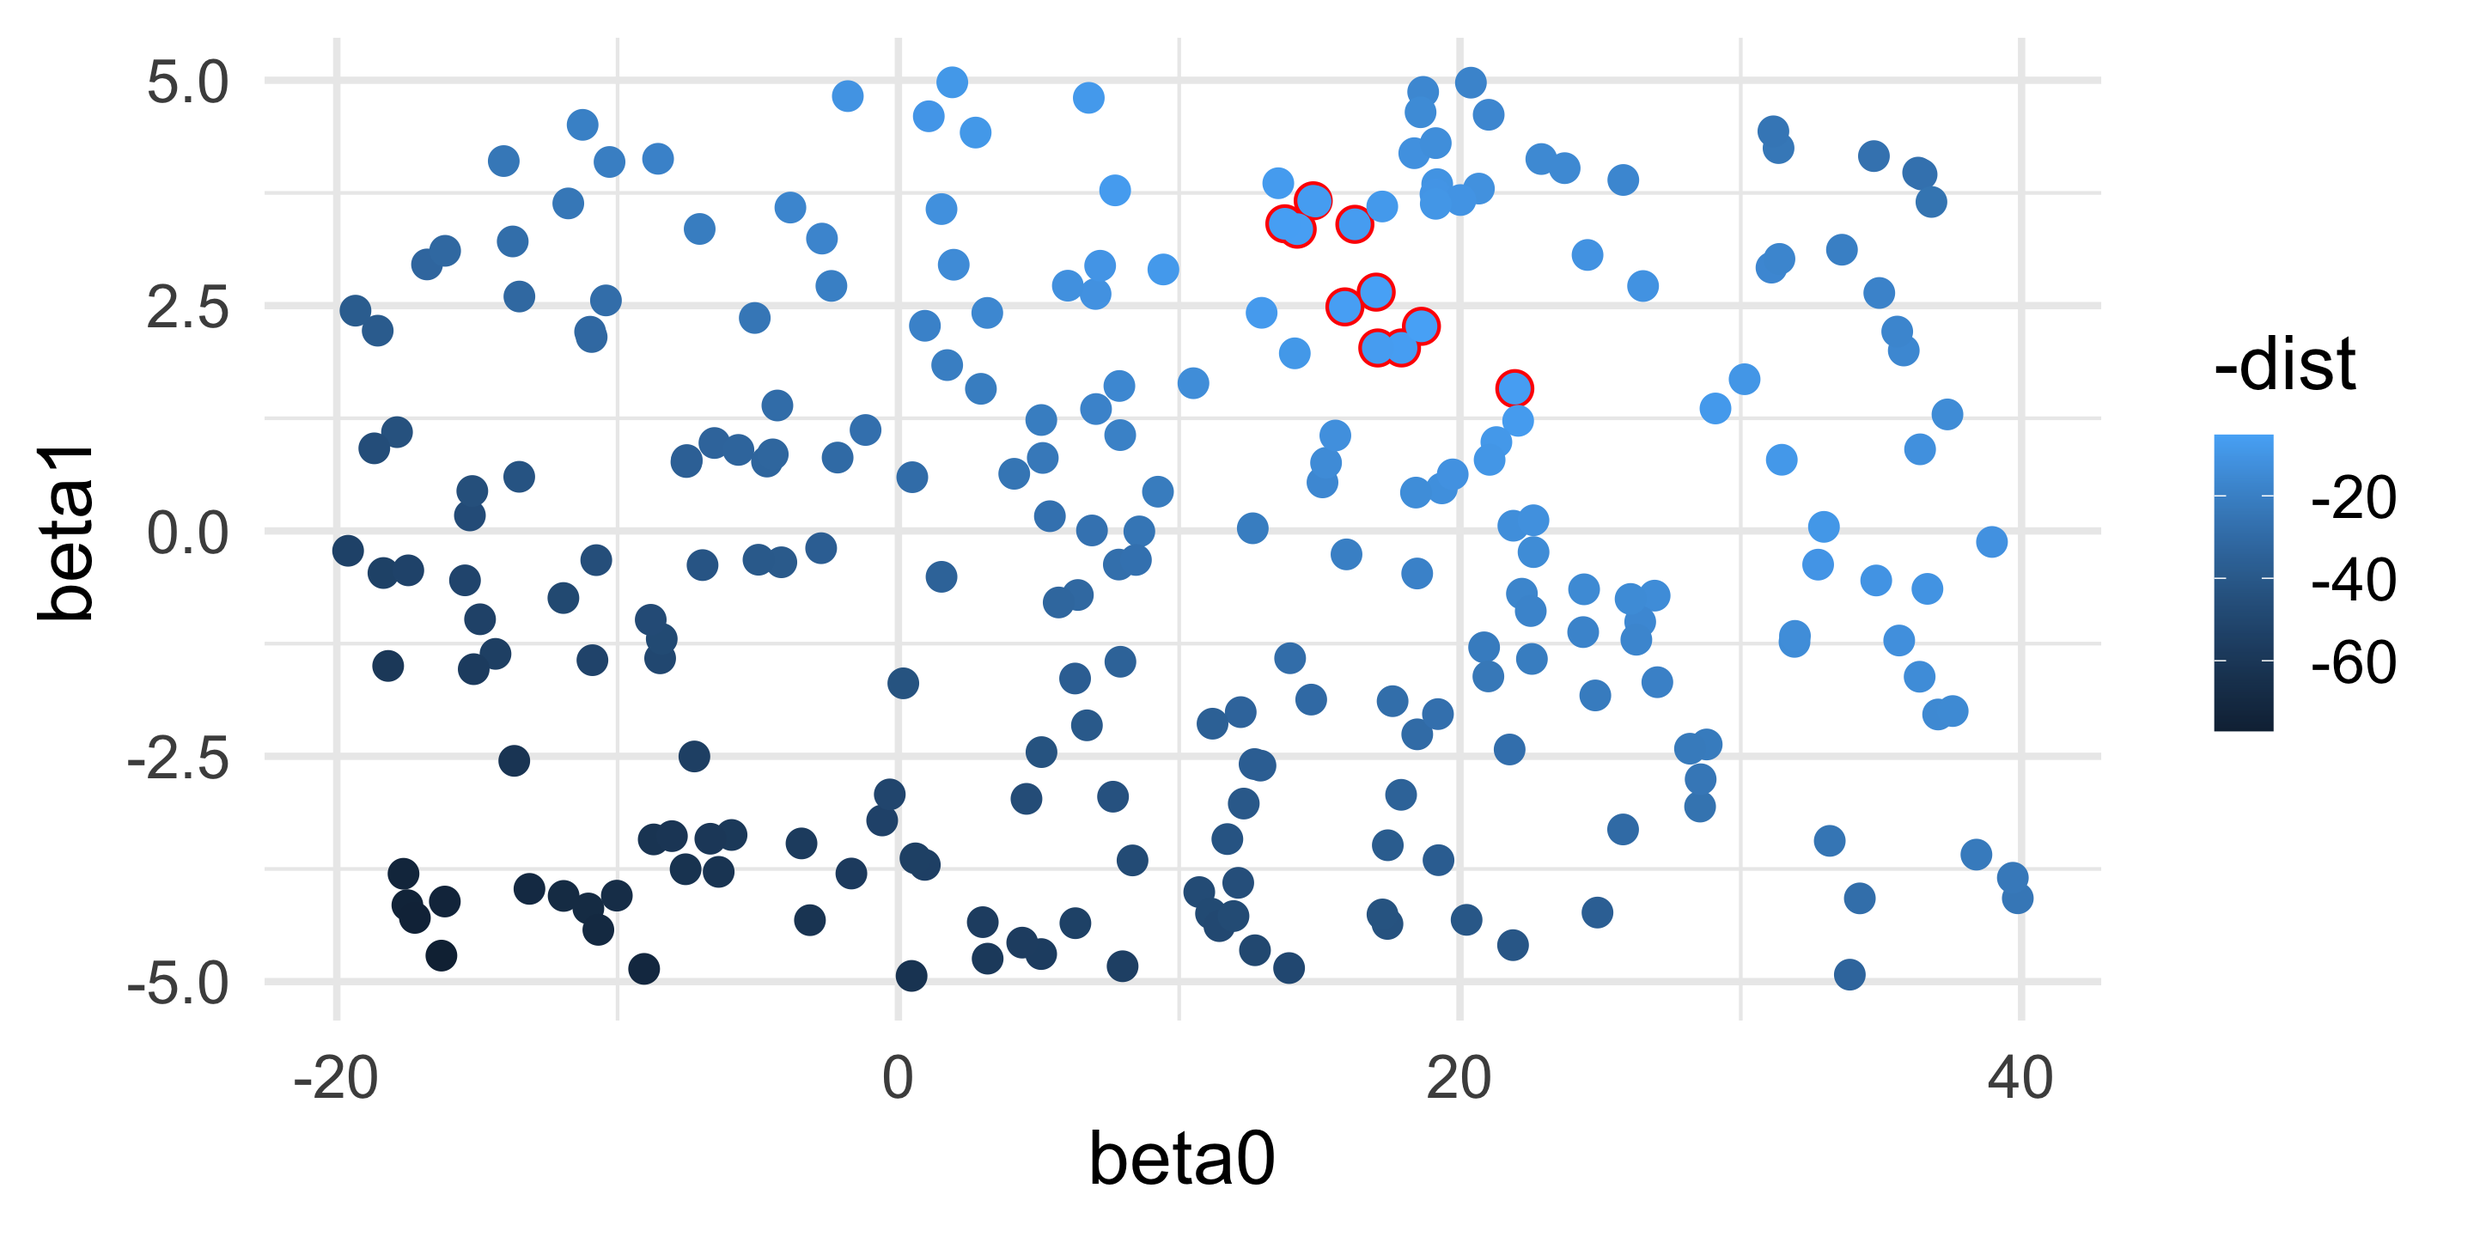
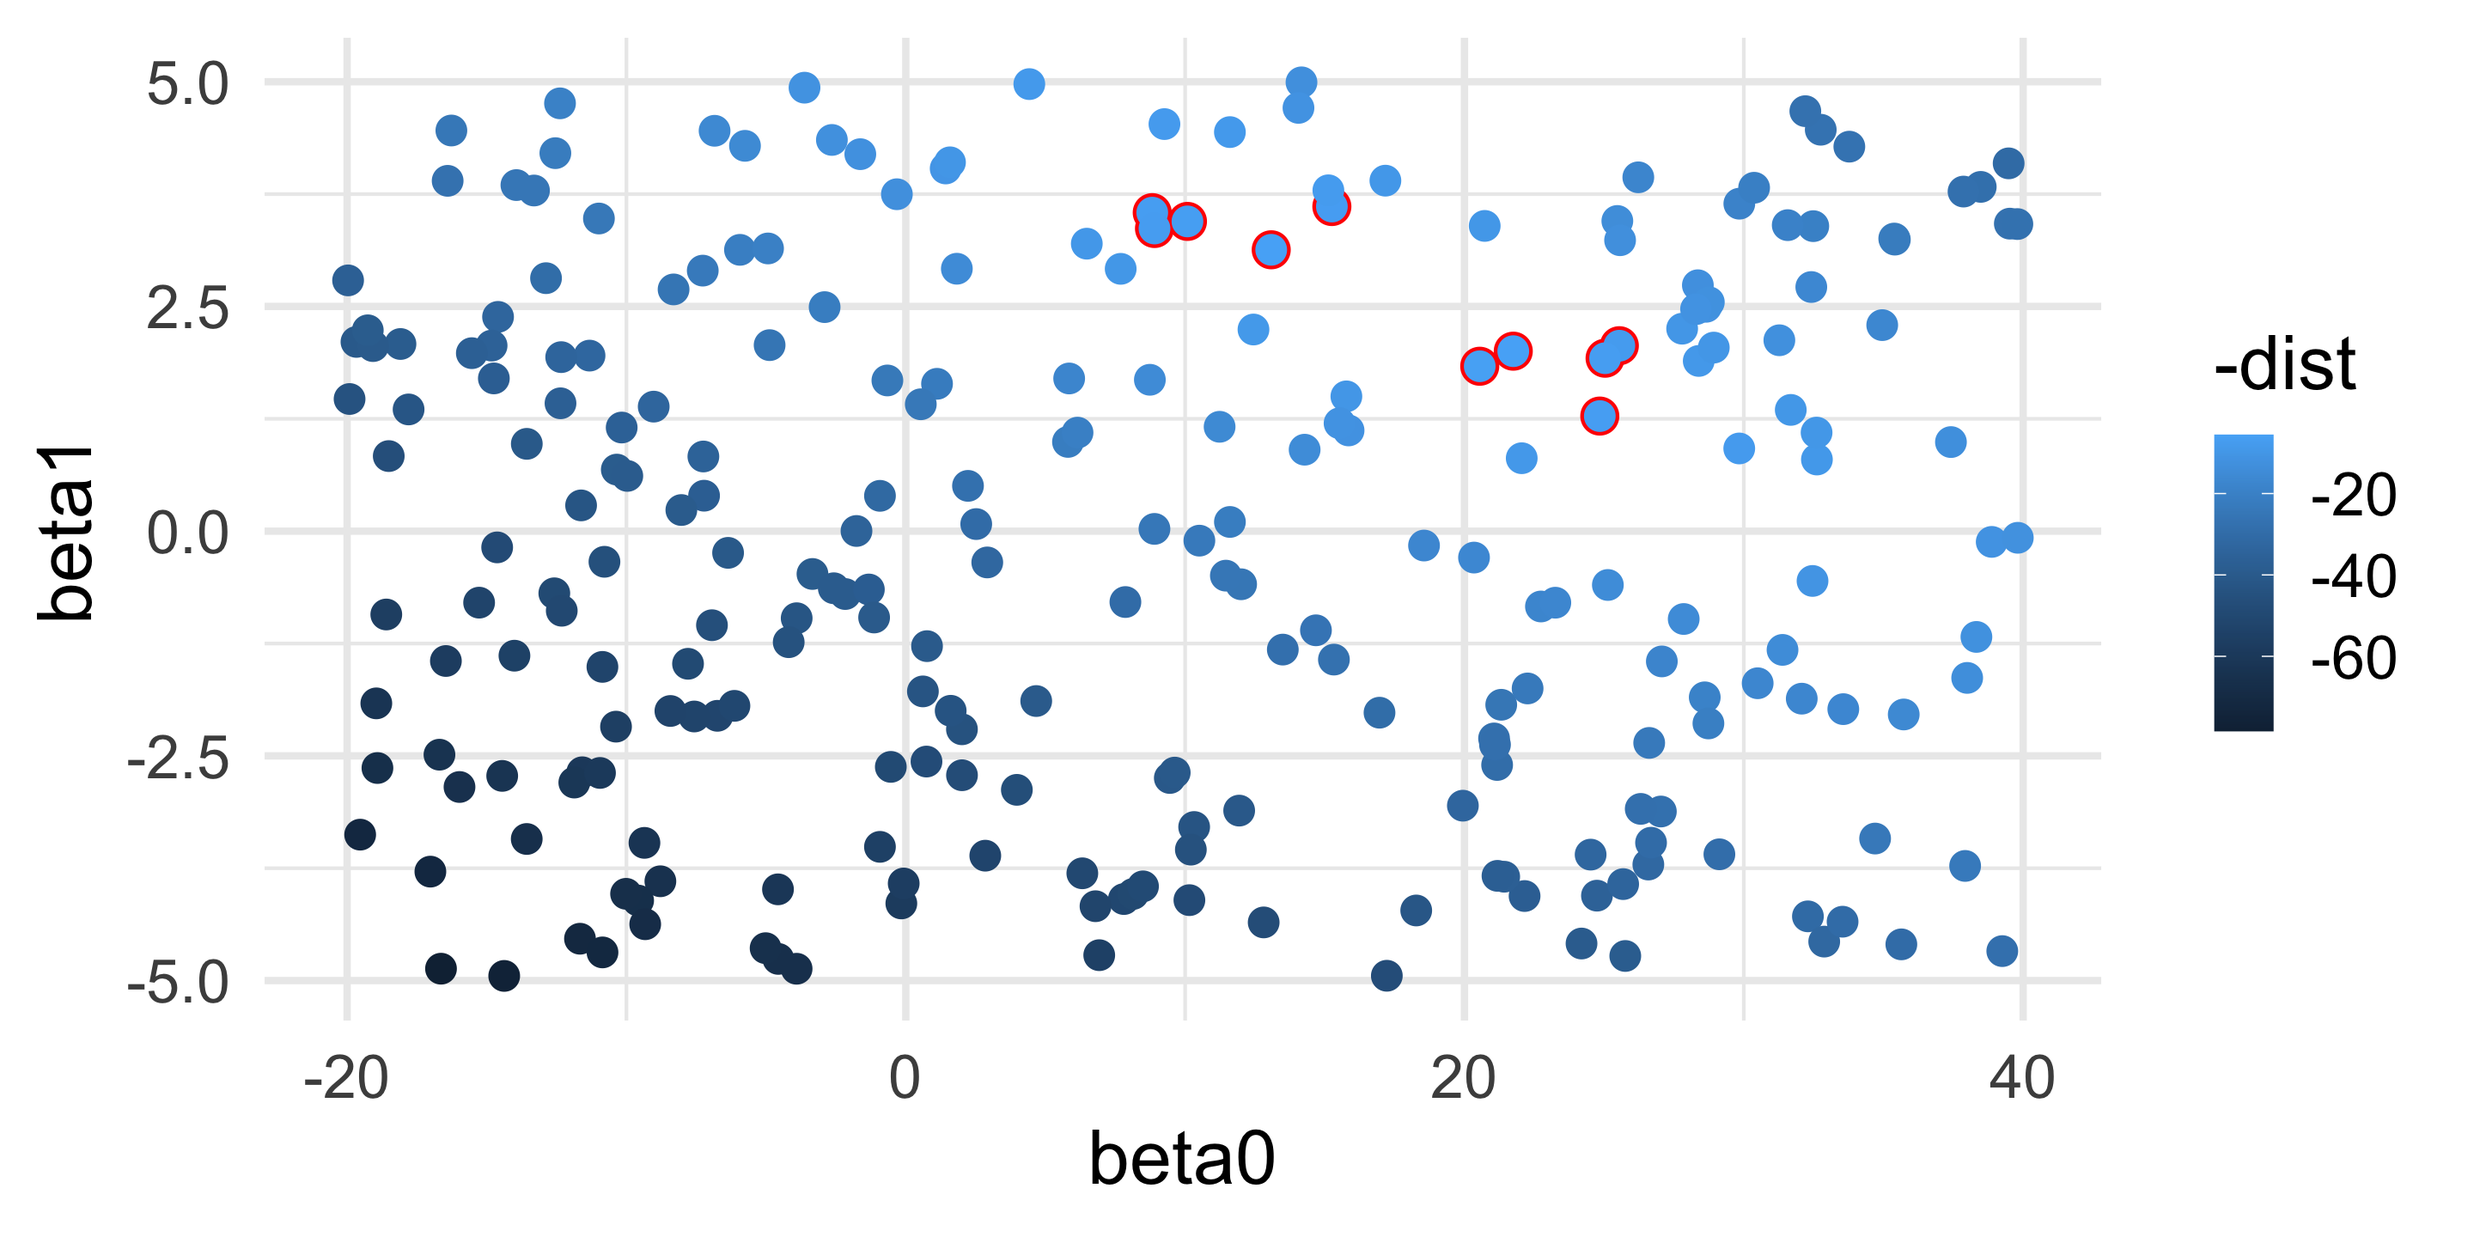
built for latest content

diff --git a/docs/narrative.html b/docs/narrative.html
@@ -132,10 +132,12 @@ window.Quarto = {
 </header>
 
 
-<p><img src="media/models.png" class="img-fluid"></p>
+<!-- BEGIN module:header — generated from module.yml; edit that, not this -->
+<p><img src="media/module_image.jpg" class="img-fluid" alt="A donkey on the beach near Ixtapa, Mexico."></p>
 <blockquote class="blockquote">
 <p>The overall goal of any model is to provide a low-level description of patterns within the data.</p>
 </blockquote>
+<!-- END module:header -->
 <p>If we think of all the variation in a data set, we can partition it into the following components:</p>
 <p><span class="math display">\[
 \sigma_{Total}^2 = \sigma_{Model}^2 + \sigma_{Residual}^2
@@ -183,12 +185,12 @@ y_{ij} = \beta_0 + \beta_1 x_{i} + \epsilon_j
 <span id="cb3-3"><a href="#cb3-3" aria-hidden="true" tabindex="-1"></a><span class="fu">summary</span>( models )</span></code></pre></div><button title="Copy to Clipboard" class="code-copy-button"><i class="bi"></i></button></div>
 <div class="cell-output cell-output-stdout">
 <pre><code>     beta0             beta1        
- Min.   :-19.810   Min.   :-4.9405  
- 1st Qu.: -8.454   1st Qu.:-2.5273  
- Median :  7.313   Median :-0.2439  
- Mean   :  7.525   Mean   :-0.2425  
- 3rd Qu.: 22.319   3rd Qu.: 2.0126  
- Max.   : 39.891   Max.   : 4.9577  </code></pre>
+ Min.   :-19.964   Min.   :-4.9618  
+ 1st Qu.: -5.954   1st Qu.:-2.8537  
+ Median :  8.979   Median :-0.3831  
+ Mean   :  9.337   Mean   :-0.4297  
+ 3rd Qu.: 25.447   3rd Qu.: 1.5416  
+ Max.   : 39.808   Max.   : 4.9388  </code></pre>
 </div>
 </div>
 <p>We can plot these and the original data and all these randomly defined models.</p>
@@ -239,13 +241,13 @@ y_{ij} = \beta_0 + \beta_1 x_{i} + \epsilon_j
 <span id="cb7-7"><a href="#cb7-7" aria-hidden="true" tabindex="-1"></a>}</span>
 <span id="cb7-8"><a href="#cb7-8" aria-hidden="true" tabindex="-1"></a><span class="fu">head</span>( models )</span></code></pre></div><button title="Copy to Clipboard" class="code-copy-button"><i class="bi"></i></button></div>
 <div class="cell-output cell-output-stdout">
-<pre><code>      beta0       beta1      dist
-1 -16.09063 -0.24246791 50.104561
-2 -11.14741 -0.02929899 44.012023
-3 -15.50407 -1.86794924 59.161027
-4  30.96283 -2.73346555 22.665939
-5  33.02548 -3.85426219 27.741279
-6  27.45738  0.03260307  9.979749</code></pre>
+<pre><code>       beta0      beta1     dist
+1  12.647228 -4.2017641 46.81196
+2   4.884073 -3.5188019 49.72289
+3   0.403033 -0.9579392 38.36538
+4 -17.825409 -2.9724538 68.02934
+5  13.488904 -2.1740233 33.59800
+6  22.582257  0.8324193  8.64698</code></pre>
 </div>
 </div>
 <p>If we look through these models, we can see which are better than others by sorting in increasing squared distance.</p>
@@ -862,42 +864,42 @@ y = \beta_0 + \beta_1 x_1 + \beta_2 x_2 + \beta_3 x_3 + \epsilon
 </tr>
 <tr class="even">
 <td style="text-align: left;">Ozone ~ Temp + Wind + Solar + 1 Random Variables</td>
-<td style="text-align: right;">0.6143</td>
+<td style="text-align: right;">0.6070</td>
 <td style="text-align: right;">0e+00</td>
 </tr>
 <tr class="odd">
 <td style="text-align: left;">Ozone ~ Temp + Wind + Solar + 2 Random Variables</td>
-<td style="text-align: right;">0.6153</td>
+<td style="text-align: right;">0.6177</td>
 <td style="text-align: right;">0e+00</td>
 </tr>
 <tr class="even">
 <td style="text-align: left;">Ozone ~ Temp + Wind + Solar + 3 Random Variables</td>
-<td style="text-align: right;">0.6250</td>
+<td style="text-align: right;">0.6205</td>
 <td style="text-align: right;">0e+00</td>
 </tr>
 <tr class="odd">
 <td style="text-align: left;">Ozone ~ Temp + Wind + Solar + 4 Random Variables</td>
-<td style="text-align: right;">0.6254</td>
+<td style="text-align: right;">0.6229</td>
 <td style="text-align: right;">0e+00</td>
 </tr>
 <tr class="even">
 <td style="text-align: left;">Ozone ~ Temp + Wind + Solar + 5 Random Variables</td>
-<td style="text-align: right;">0.6271</td>
+<td style="text-align: right;">0.6229</td>
 <td style="text-align: right;">0e+00</td>
 </tr>
 <tr class="odd">
 <td style="text-align: left;">Ozone ~ Temp + Wind + Solar + 6 Random Variables</td>
-<td style="text-align: right;">0.6337</td>
+<td style="text-align: right;">0.6293</td>
 <td style="text-align: right;">0e+00</td>
 </tr>
 <tr class="even">
 <td style="text-align: left;">Ozone ~ Temp + Wind + Solar + 7 Random Variables</td>
-<td style="text-align: right;">0.6366</td>
+<td style="text-align: right;">0.6308</td>
 <td style="text-align: right;">0e+00</td>
 </tr>
 <tr class="odd">
 <td style="text-align: left;">Ozone ~ Temp + Wind + Solar + 8 Random Variables</td>
-<td style="text-align: right;">0.6371</td>
+<td style="text-align: right;">0.6330</td>
 <td style="text-align: right;">0e+00</td>
 </tr>
 </tbody>
@@ -950,91 +952,91 @@ AIC = -2 \ln L + 2p
 <td style="text-align: left;">Ozone ~ Temp</td>
 <td style="text-align: right;">0.488</td>
 <td style="text-align: right;">1067.706</td>
-<td style="text-align: right;">69.395</td>
+<td style="text-align: right;">68.989</td>
 </tr>
 <tr class="even">
 <td style="text-align: left;">Ozone ~ Wind</td>
 <td style="text-align: right;">0.362</td>
 <td style="text-align: right;">1093.187</td>
-<td style="text-align: right;">94.876</td>
+<td style="text-align: right;">94.470</td>
 </tr>
 <tr class="odd">
 <td style="text-align: left;">Ozone ~ Solar</td>
 <td style="text-align: right;">0.121</td>
 <td style="text-align: right;">1083.714</td>
-<td style="text-align: right;">85.403</td>
+<td style="text-align: right;">84.997</td>
 </tr>
 <tr class="even">
 <td style="text-align: left;">Ozone ~ Temp + Wind</td>
 <td style="text-align: right;">0.569</td>
 <td style="text-align: right;">1049.741</td>
-<td style="text-align: right;">51.430</td>
+<td style="text-align: right;">51.024</td>
 </tr>
 <tr class="odd">
 <td style="text-align: left;">Ozone ~ Temp + Solar</td>
 <td style="text-align: right;">0.510</td>
 <td style="text-align: right;">1020.820</td>
-<td style="text-align: right;">22.508</td>
+<td style="text-align: right;">22.103</td>
 </tr>
 <tr class="even">
 <td style="text-align: left;">Ozone ~ Wind + Solar</td>
 <td style="text-align: right;">0.449</td>
 <td style="text-align: right;">1033.816</td>
-<td style="text-align: right;">35.504</td>
+<td style="text-align: right;">35.098</td>
 </tr>
 <tr class="odd">
 <td style="text-align: left;">Ozone ~ Temp + Wind + Solar</td>
 <td style="text-align: right;">0.606</td>
 <td style="text-align: right;">998.717</td>
-<td style="text-align: right;">0.406</td>
+<td style="text-align: right;">0.000</td>
 </tr>
 <tr class="even">
 <td style="text-align: left;">Ozone ~ Temp + Wind + Solar + 1 Random Variables</td>
-<td style="text-align: right;">0.614</td>
-<td style="text-align: right;">998.311</td>
-<td style="text-align: right;">0.000</td>
+<td style="text-align: right;">0.607</td>
+<td style="text-align: right;">1000.410</td>
+<td style="text-align: right;">1.693</td>
 </tr>
 <tr class="odd">
 <td style="text-align: left;">Ozone ~ Temp + Wind + Solar + 2 Random Variables</td>
-<td style="text-align: right;">0.615</td>
-<td style="text-align: right;">1000.028</td>
-<td style="text-align: right;">1.717</td>
+<td style="text-align: right;">0.618</td>
+<td style="text-align: right;">999.330</td>
+<td style="text-align: right;">0.613</td>
 </tr>
 <tr class="even">
 <td style="text-align: left;">Ozone ~ Temp + Wind + Solar + 3 Random Variables</td>
-<td style="text-align: right;">0.625</td>
-<td style="text-align: right;">999.188</td>
-<td style="text-align: right;">0.876</td>
+<td style="text-align: right;">0.621</td>
+<td style="text-align: right;">1000.516</td>
+<td style="text-align: right;">1.799</td>
 </tr>
 <tr class="odd">
 <td style="text-align: left;">Ozone ~ Temp + Wind + Solar + 4 Random Variables</td>
-<td style="text-align: right;">0.625</td>
-<td style="text-align: right;">1001.082</td>
-<td style="text-align: right;">2.771</td>
+<td style="text-align: right;">0.623</td>
+<td style="text-align: right;">1001.814</td>
+<td style="text-align: right;">3.097</td>
 </tr>
 <tr class="even">
 <td style="text-align: left;">Ozone ~ Temp + Wind + Solar + 5 Random Variables</td>
-<td style="text-align: right;">0.627</td>
-<td style="text-align: right;">1002.569</td>
-<td style="text-align: right;">4.257</td>
+<td style="text-align: right;">0.623</td>
+<td style="text-align: right;">1003.807</td>
+<td style="text-align: right;">5.090</td>
 </tr>
 <tr class="odd">
 <td style="text-align: left;">Ozone ~ Temp + Wind + Solar + 6 Random Variables</td>
-<td style="text-align: right;">0.634</td>
-<td style="text-align: right;">1002.603</td>
-<td style="text-align: right;">4.292</td>
+<td style="text-align: right;">0.629</td>
+<td style="text-align: right;">1003.907</td>
+<td style="text-align: right;">5.190</td>
 </tr>
 <tr class="even">
 <td style="text-align: left;">Ozone ~ Temp + Wind + Solar + 7 Random Variables</td>
-<td style="text-align: right;">0.637</td>
-<td style="text-align: right;">1003.704</td>
-<td style="text-align: right;">5.393</td>
+<td style="text-align: right;">0.631</td>
+<td style="text-align: right;">1005.467</td>
+<td style="text-align: right;">6.750</td>
 </tr>
 <tr class="odd">
 <td style="text-align: left;">Ozone ~ Temp + Wind + Solar + 8 Random Variables</td>
-<td style="text-align: right;">0.637</td>
-<td style="text-align: right;">1005.573</td>
-<td style="text-align: right;">7.262</td>
+<td style="text-align: right;">0.633</td>
+<td style="text-align: right;">1006.807</td>
+<td style="text-align: right;">8.090</td>
 </tr>
 </tbody>
 </table>

diff --git a/docs/slides.html b/docs/slides.html
@@ -242,12 +242,12 @@ y = \beta_0 + \beta_1 x_1 + \epsilon
 <span id="cb1-3"><a href=""></a><span class="fu">summary</span>( models )</span></code></pre></div><button title="Copy to Clipboard" class="code-copy-button"><i class="bi"></i></button></div>
 <div class="cell-output cell-output-stdout">
 <pre><code>     beta0             beta1        
- Min.   :-19.598   Min.   :-4.9365  
- 1st Qu.: -4.274   1st Qu.:-2.5385  
- Median : 10.611   Median :-0.2273  
- Mean   :  9.573   Mean   :-0.1091  
- 3rd Qu.: 21.650   3rd Qu.: 2.4200  
- Max.   : 39.864   Max.   : 4.9770  </code></pre>
+ Min.   :-19.965   Min.   :-4.9482  
+ 1st Qu.: -7.740   1st Qu.:-2.6707  
+ Median :  7.750   Median :-0.2677  
+ Mean   :  8.274   Mean   :-0.1383  
+ 3rd Qu.: 25.108   3rd Qu.: 2.2503  
+ Max.   : 39.808   Max.   : 4.9935  </code></pre>
 </div>
 </div>
 </div><div class="column" style="width:50%;">
@@ -291,12 +291,12 @@ y = \beta_0 + \beta_1 x_1 + \epsilon
 <span id="cb4-8"><a href=""></a><span class="fu">head</span>( models )</span></code></pre></div><button title="Copy to Clipboard" class="code-copy-button"><i class="bi"></i></button></div>
 <div class="cell-output cell-output-stdout">
 <pre><code>       beta0      beta1     dist
-1 28.7849851 -2.3686944 22.09158
-2 15.1029467  0.5388660 15.80474
-3 -2.7209410  3.2435006 17.49930
-4 20.6735662  3.7980586 11.64837
-5 26.9316197 -0.7176156 13.99879
-6  0.4951626  0.5963720 29.02303</code></pre>
+1  -7.268578  2.8986425 23.64729
+2  27.065503 -1.4491565 17.99488
+3 -10.345671  0.6848561 39.05557
+4   1.427956  4.0351897 10.46134
+5 -13.567335  0.9713629 40.56625
+6  39.523158  3.4212957 27.22725</code></pre>
 </div>
 </div>
 </section>
@@ -917,35 +917,35 @@ y = \beta_0 + \beta_1 x_1 + \epsilon
 <tbody>
 <tr class="odd">
 <td style="text-align: left;">Ozone ~ Temp + Wind + Solar + 1 Random Variables</td>
-<td style="text-align: left;">0.6059</td>
+<td style="text-align: left;">0.6061</td>
 </tr>
 <tr class="even">
 <td style="text-align: left;">Ozone ~ Temp + Wind + Solar + 2 Random Variables</td>
-<td style="text-align: left;">0.6075</td>
+<td style="text-align: left;">0.6088</td>
 </tr>
 <tr class="odd">
 <td style="text-align: left;">Ozone ~ Temp + Wind + Solar + 3 Random Variables</td>
-<td style="text-align: left;">0.6081</td>
+<td style="text-align: left;">0.6091</td>
 </tr>
 <tr class="even">
 <td style="text-align: left;">Ozone ~ Temp + Wind + Solar + 4 Random Variables</td>
-<td style="text-align: left;">0.6255</td>
+<td style="text-align: left;">0.6138</td>
 </tr>
 <tr class="odd">
 <td style="text-align: left;">Ozone ~ Temp + Wind + Solar + 5 Random Variables</td>
-<td style="text-align: left;">0.6255</td>
+<td style="text-align: left;">0.6138</td>
 </tr>
 <tr class="even">
 <td style="text-align: left;">Ozone ~ Temp + Wind + Solar + 6 Random Variables</td>
-<td style="text-align: left;">0.6258</td>
+<td style="text-align: left;">0.6162</td>
 </tr>
 <tr class="odd">
 <td style="text-align: left;">Ozone ~ Temp + Wind + Solar + 7 Random Variables</td>
-<td style="text-align: left;">0.6283</td>
+<td style="text-align: left;">0.6163</td>
 </tr>
 <tr class="even">
 <td style="text-align: left;">Ozone ~ Temp + Wind + Solar + 8 Random Variables</td>
-<td style="text-align: left;">0.6330</td>
+<td style="text-align: left;">0.6230</td>
 </tr>
 </tbody>
 </table>
@@ -1036,50 +1036,50 @@ y = \beta_0 + \beta_1 x_1 + \epsilon
 <tr class="even">
 <td style="text-align: left;">Ozone ~ Temp + Wind + Solar + 1 Random Variables</td>
 <td style="text-align: right;">0.606</td>
-<td style="text-align: right;">1000.708</td>
-<td style="text-align: right;">1.991</td>
+<td style="text-align: right;">1000.651</td>
+<td style="text-align: right;">1.934</td>
 </tr>
 <tr class="odd">
 <td style="text-align: left;">Ozone ~ Temp + Wind + Solar + 2 Random Variables</td>
-<td style="text-align: right;">0.607</td>
-<td style="text-align: right;">1002.276</td>
-<td style="text-align: right;">3.559</td>
+<td style="text-align: right;">0.609</td>
+<td style="text-align: right;">1001.891</td>
+<td style="text-align: right;">3.174</td>
 </tr>
 <tr class="even">
 <td style="text-align: left;">Ozone ~ Temp + Wind + Solar + 3 Random Variables</td>
-<td style="text-align: right;">0.608</td>
-<td style="text-align: right;">1004.095</td>
-<td style="text-align: right;">5.378</td>
+<td style="text-align: right;">0.609</td>
+<td style="text-align: right;">1003.815</td>
+<td style="text-align: right;">5.098</td>
 </tr>
 <tr class="odd">
 <td style="text-align: left;">Ozone ~ Temp + Wind + Solar + 4 Random Variables</td>
-<td style="text-align: right;">0.625</td>
-<td style="text-align: right;">1001.063</td>
-<td style="text-align: right;">2.346</td>
+<td style="text-align: right;">0.614</td>
+<td style="text-align: right;">1004.474</td>
+<td style="text-align: right;">5.757</td>
 </tr>
 <tr class="even">
 <td style="text-align: left;">Ozone ~ Temp + Wind + Solar + 5 Random Variables</td>
-<td style="text-align: right;">0.626</td>
-<td style="text-align: right;">1003.047</td>
-<td style="text-align: right;">4.330</td>
+<td style="text-align: right;">0.614</td>
+<td style="text-align: right;">1006.472</td>
+<td style="text-align: right;">7.755</td>
 </tr>
 <tr class="odd">
 <td style="text-align: left;">Ozone ~ Temp + Wind + Solar + 6 Random Variables</td>
-<td style="text-align: right;">0.626</td>
-<td style="text-align: right;">1004.963</td>
-<td style="text-align: right;">6.246</td>
+<td style="text-align: right;">0.616</td>
+<td style="text-align: right;">1007.772</td>
+<td style="text-align: right;">9.054</td>
 </tr>
 <tr class="even">
 <td style="text-align: left;">Ozone ~ Temp + Wind + Solar + 7 Random Variables</td>
-<td style="text-align: right;">0.628</td>
-<td style="text-align: right;">1006.219</td>
-<td style="text-align: right;">7.502</td>
+<td style="text-align: right;">0.616</td>
+<td style="text-align: right;">1009.760</td>
+<td style="text-align: right;">11.043</td>
 </tr>
 <tr class="odd">
 <td style="text-align: left;">Ozone ~ Temp + Wind + Solar + 8 Random Variables</td>
-<td style="text-align: right;">0.633</td>
-<td style="text-align: right;">1006.815</td>
-<td style="text-align: right;">8.098</td>
+<td style="text-align: right;">0.623</td>
+<td style="text-align: right;">1009.784</td>
+<td style="text-align: right;">11.067</td>
 </tr>
 </tbody>
 </table>
